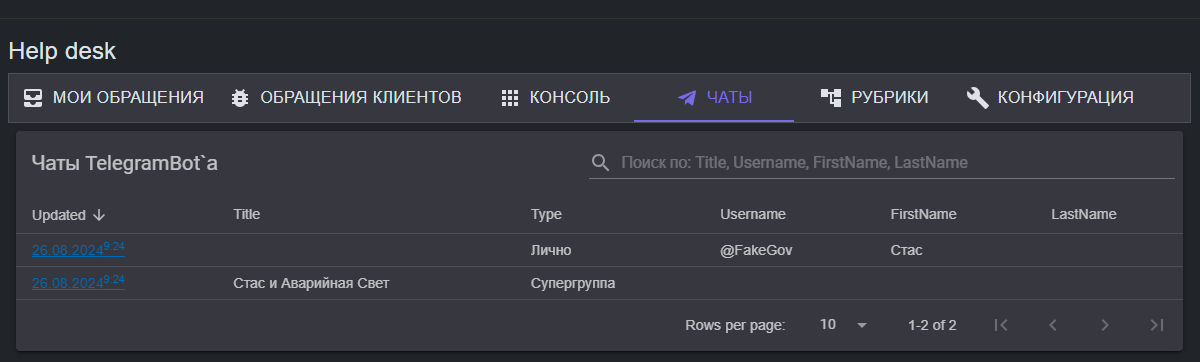
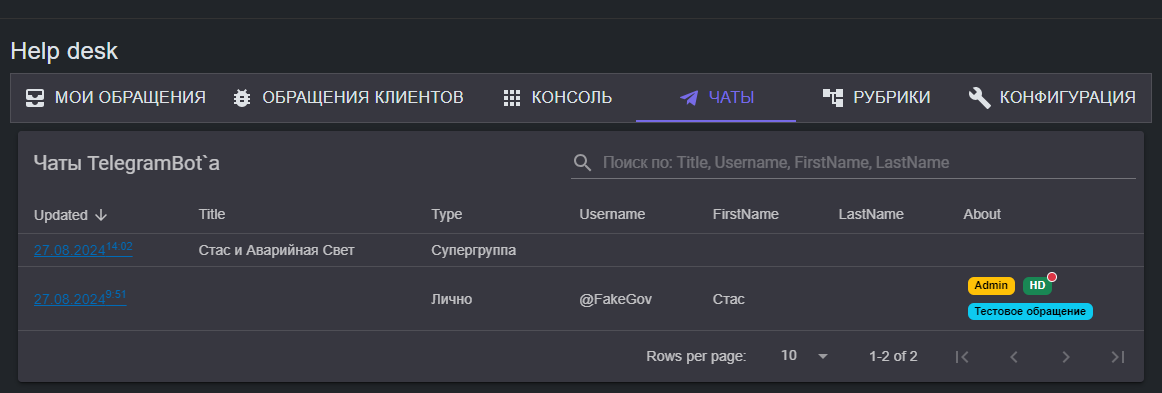
~

diff --git a/HelpdeskService/README.md b/HelpdeskService/README.md
@@ -59,6 +59,7 @@
 
 ### Чаты TelegramBot
 ![TelegramBot чаты](img/telegram-chats.png)
+В колонке **About** сразу видно статус пользователя. Администратор отмечен жёлтым бейджем, а сотрудники HelpDesk зелёным. По наличию у зелёного бейдж (HD) красного маркера в угле означает что это менеджер, а без маркера рядовой сотрудник. Там же можно увидеть связанные обращения: автор, исполнитель или подписчик. Что бы ознакомиться более подробно с чатом нужно его открыть.
 
 Любой чат можно открыть и начать переписку с клиентом от имени бота или посмотреть обращения, связанные с чатом:
 
